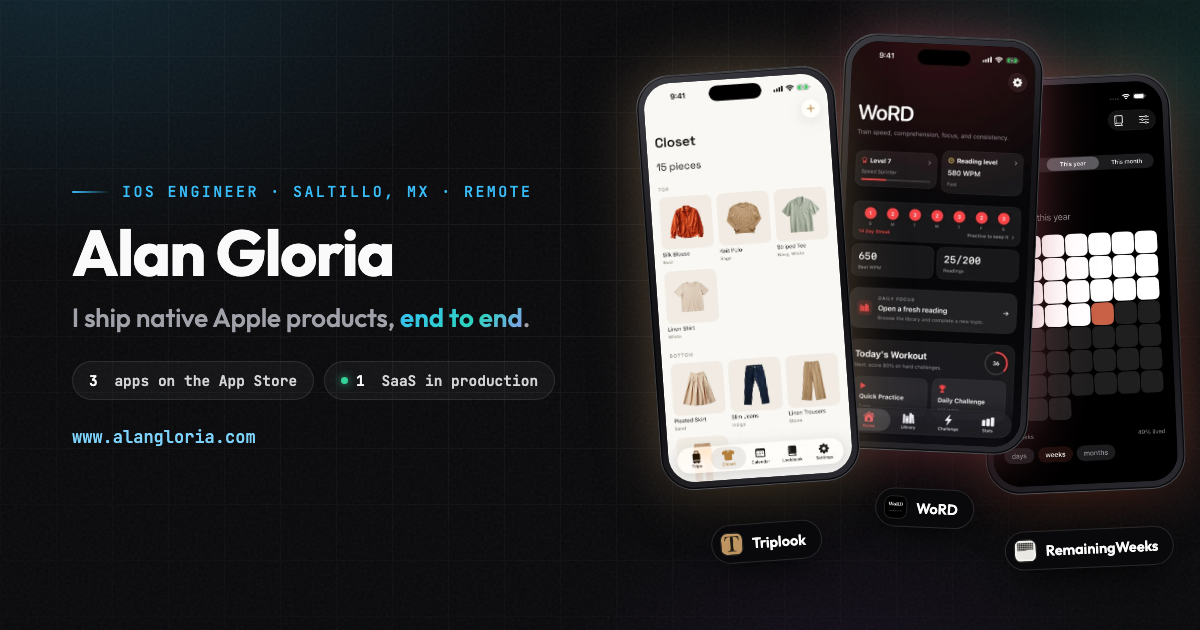
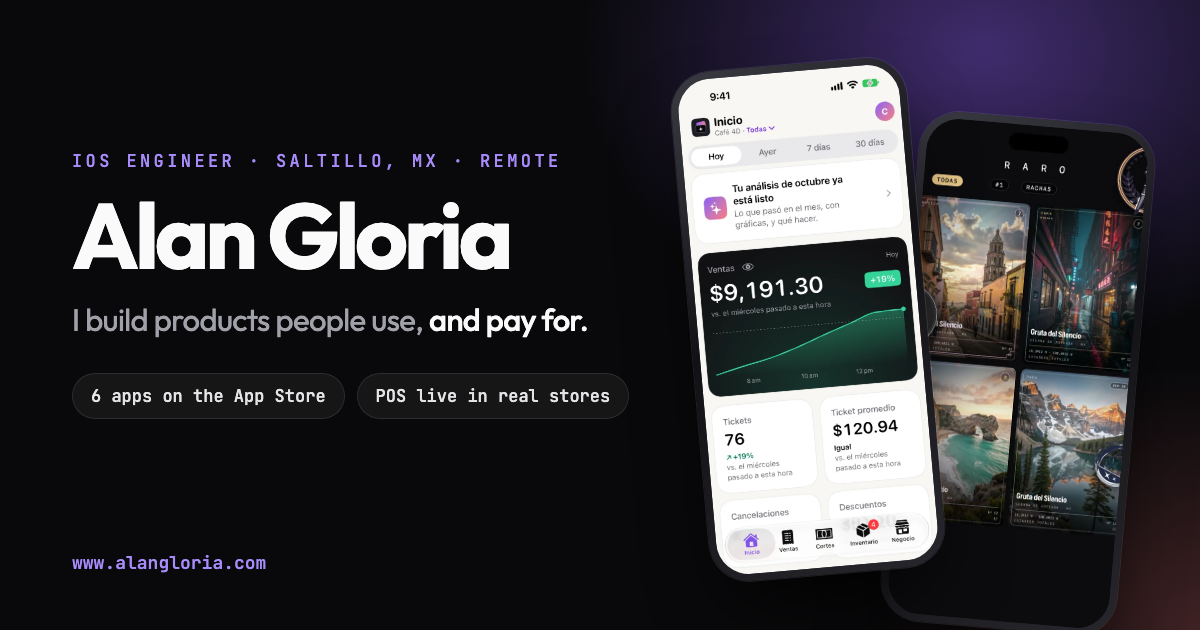
Refresh the share image with POSMe and six apps

diff --git a/scripts/og/og.html b/scripts/og/og.html
@@ -1,0 +1,61 @@
+<!doctype html>
+<html lang="en">
+<head>
+<meta charset="utf-8" />
+<link href="https://fonts.googleapis.com/css2?family=JetBrains+Mono:wght@500&family=Outfit:wght@400;500;600;700&display=swap" rel="stylesheet" />
+<style>
+  * { margin: 0; padding: 0; box-sizing: border-box; }
+  html, body { width: 1200px; height: 630px; overflow: hidden; background: #09090b; }
+  .og {
+    position: relative; width: 1200px; height: 630px; overflow: hidden;
+    font-family: 'Outfit', system-ui, sans-serif; color: #fafafa;
+    background:
+      radial-gradient(48% 70% at 82% 8%, rgba(139, 92, 246, 0.42), transparent 70%),
+      radial-gradient(38% 60% at 100% 100%, rgba(255, 122, 122, 0.22), transparent 70%),
+      #09090b;
+  }
+  .copy { position: absolute; left: 72px; top: 150px; width: 560px; }
+  .eyebrow {
+    font-family: 'JetBrains Mono', ui-monospace, monospace; font-weight: 500;
+    font-size: 17px; letter-spacing: 0.2em; color: #a78bfa; text-transform: uppercase;
+  }
+  h1 { margin-top: 20px; font-size: 92px; line-height: 0.95; font-weight: 700; letter-spacing: -0.045em; }
+  .tag { margin-top: 22px; font-size: 31px; line-height: 1.2; color: #a1a1aa; letter-spacing: -0.02em; }
+  .tag b { color: #fafafa; font-weight: 500; }
+  .chips { margin-top: 34px; display: flex; gap: 12px; }
+  .chip {
+    font-family: 'JetBrains Mono', ui-monospace, monospace; font-weight: 500; font-size: 17px;
+    padding: 11px 18px; border-radius: 999px; color: #e4e4e7;
+    background: rgba(255, 255, 255, 0.05); border: 1px solid rgba(255, 255, 255, 0.1);
+  }
+  .url {
+    position: absolute; left: 72px; bottom: 56px;
+    font-family: 'JetBrains Mono', ui-monospace, monospace; font-weight: 500; font-size: 18px; color: #a78bfa;
+  }
+  .phone {
+    position: absolute; width: 236px; aspect-ratio: 9 / 19.5; border-radius: 40px; padding: 7px;
+    background: linear-gradient(150deg, #3a3a42, #121216 45%, #26262c);
+    box-shadow: 0 0 0 1px rgba(255, 255, 255, 0.1), 0 40px 80px -24px rgba(0, 0, 0, 0.9);
+  }
+  .phone img { width: 100%; height: 100%; object-fit: cover; object-position: top; border-radius: 33px; display: block; }
+  .p1 { left: 690px; top: 64px; transform: rotate(-5deg); z-index: 2; }
+  .p2 { left: 900px; top: 118px; transform: rotate(5deg); z-index: 1; }
+</style>
+</head>
+<body>
+<div class="og">
+  <div class="copy">
+    <p class="eyebrow">iOS Engineer · Saltillo, MX · Remote</p>
+    <h1>Alan Gloria</h1>
+    <p class="tag">I build products people use, <b>and pay for.</b></p>
+    <div class="chips">
+      <span class="chip">6 apps on the App Store</span>
+      <span class="chip">POS live in real stores</span>
+    </div>
+  </div>
+  <p class="url">www.alangloria.com</p>
+  <div class="phone p1"><img src="../../public/posme-iphone-inicio.webp" alt="" /></div>
+  <div class="phone p2"><img src="../../public/raro-app-home.webp" alt="" /></div>
+</div>
+</body>
+</html>

diff --git a/index.html b/index.html
@@ -19,7 +19,7 @@
     <meta property="og:image" content="https://www.alangloria.com/og.png" />
     <meta property="og:image:width" content="1200" />
     <meta property="og:image:height" content="630" />
-    <meta property="og:image:alt" content="Alan Gloria, iOS Engineer — Triplook, WoRD and RemainingWeeks on iPhone" />
+    <meta property="og:image:alt" content="Alan Gloria, iOS Engineer. POSMe for iPhone and Raro shown on two phones." />
     <meta name="twitter:card" content="summary_large_image" />
     <meta name="twitter:title" content="Alan Gloria — iOS Engineer" />
     <meta name="twitter:description" content="iOS engineer and founder of WalletMe + POSMe, a point of sale live with businesses in Mexico, plus six iOS apps on the App Store." />
